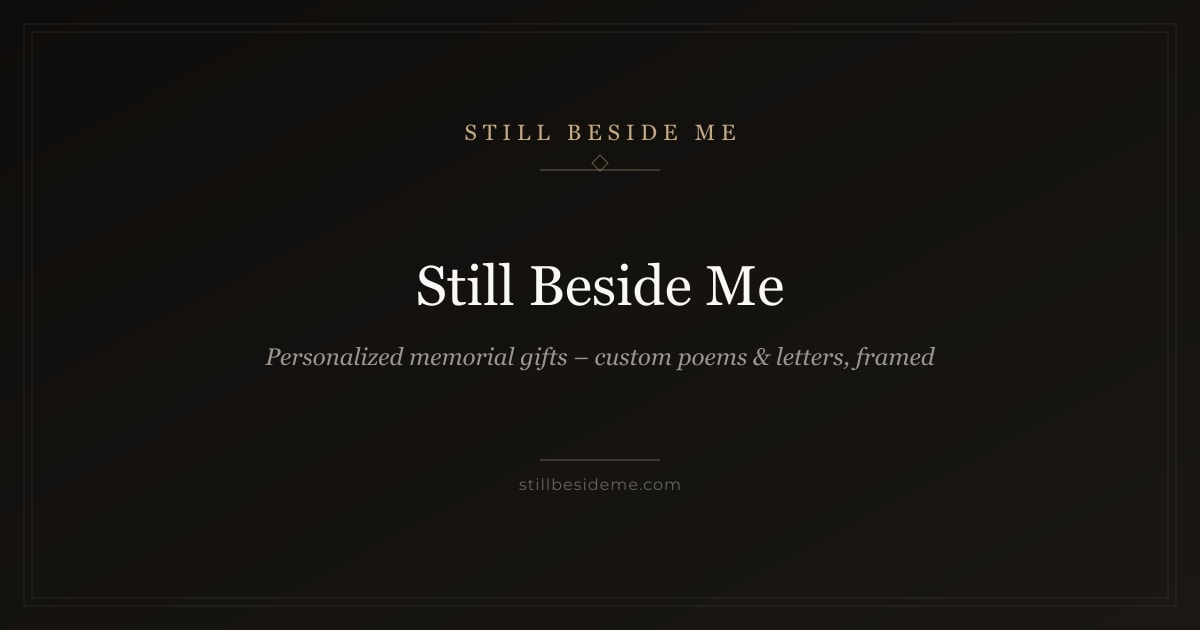
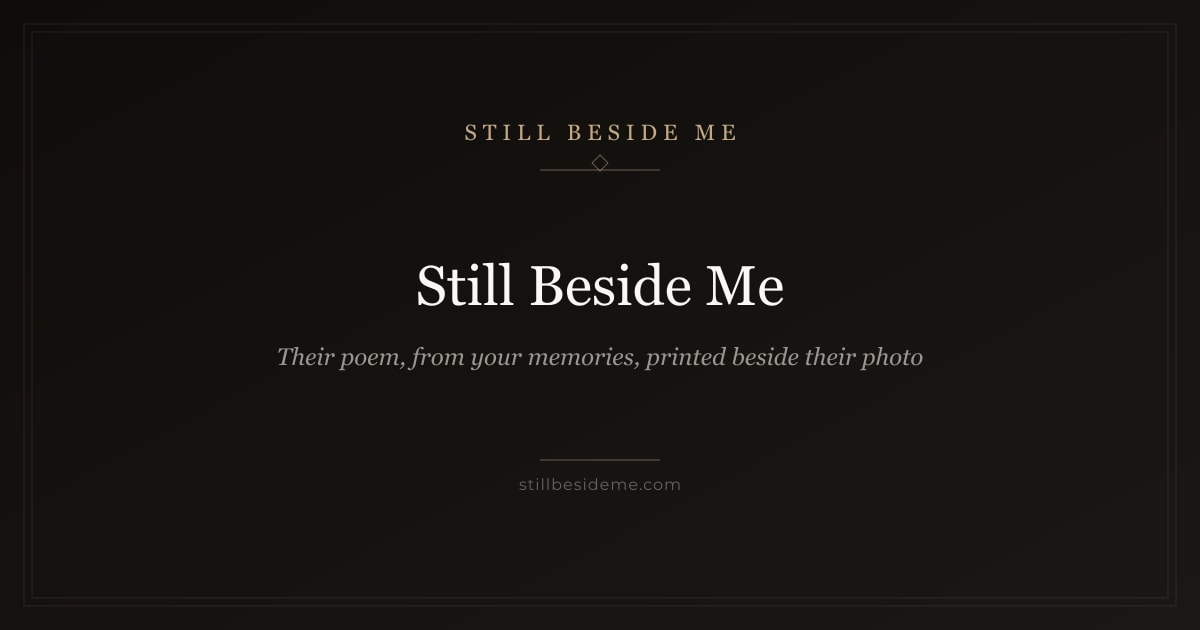
Brand marks + pet-pivot social share images
Social/OG images still said "poems & letters, framed" and rendered cards
for the discontinued human-loss pages. Update the generator for the pet
pivot: pet-focused taglines, render in the real brand serif (Cormorant via
vendored fontconfig), drop the 10 retired loss-of-* cards, regenerate all
OG images. Add brand marks (Cormorant wordmark light/dark with a gold
diamond divider, and a monogram+wordmark header lockup) alongside the
existing gold-framed "S" icon.

Changed region(s): [[0.2158, 0.5429, 0.7708, 0.6032]]

diff --git a/scripts/generate-og-images.js b/scripts/generate-og-images.js
@@ -6,6 +6,12 @@ const sharp = require('sharp');
 const path = require('path');
 const fs = require('fs');
 
+// Render text in the brand serif (Cormorant Garamond) — point fontconfig at the
+// vendored font files so Sharp rasterizes the real typeface, not a fallback.
+if (!process.env.FONTCONFIG_PATH) {
+  process.env.FONTCONFIG_PATH = path.join(__dirname, '..', 'src', 'assets', 'fonts');
+}
+
 const OUTPUT_DIR = path.join(__dirname, '..', 'public', 'images', 'og');
 if (!fs.existsSync(OUTPUT_DIR)) fs.mkdirSync(OUTPUT_DIR, { recursive: true });
 
@@ -20,25 +26,25 @@ const COLORS = {
   muted: '#9B9590',
 };
 
-// Pages to generate OG images for
+// Pages to generate OG images for. Pet-only after the June-2026 pivot \u2014 the
+// legacy human-loss / "letter from heaven" cards were removed with their pages.
 const pages = [
-  { file: 'homepage', title: 'Still Beside Me', sub: 'Personalized memorial gifts \u2013 custom poems & letters, framed' },
-  { file: 'memorial-gifts', title: 'Memorial Gifts', sub: 'A letter from heaven \u2013 in their voice, from your memories' },
+  { file: 'homepage', title: 'Still Beside Me', sub: 'Their poem, from your memories, printed beside their photo' },
   { file: 'pet-memorial-gifts', title: 'Pet Memorial Gifts', sub: 'A personalized poem for the pet who changed your life' },
-  { file: 'sympathy-gifts', title: 'Sympathy Gifts', sub: 'The gift that stays on the wall for years' },
-  { file: 'dog-memorial-gifts', title: 'Dog Memorial Gifts', sub: 'A personalized poem for the best dog ever' },
+  { file: 'dog-memorial-gifts', title: 'Dog Memorial Gifts', sub: 'A personalized poem for the best dog you ever had' },
   { file: 'cat-memorial-gifts', title: 'Cat Memorial Gifts', sub: 'A personalized poem for the cat who chose you' },
-  { file: 'loss-of-mother-gift', title: 'Loss of Mother', sub: 'A letter she would have written' },
-  { file: 'loss-of-father-gift', title: 'Loss of Father', sub: 'A letter he would have written' },
-  { file: 'loss-of-husband-gift', title: 'Loss of Husband', sub: 'A letter he would have written' },
-  { file: 'loss-of-wife-gift', title: 'Loss of Wife', sub: 'A letter she would have written' },
-  { file: 'loss-of-grandmother-gift', title: 'Loss of Grandmother', sub: 'A letter she would have written' },
-  { file: 'loss-of-grandfather-gift', title: 'Loss of Grandfather', sub: 'A letter he would have written' },
-  { file: 'loss-of-child-gift', title: 'Loss of Child', sub: 'A letter from the child who loved you' },
-  { file: 'loss-of-brother-gift', title: 'Loss of Brother', sub: 'A letter he would have written' },
-  { file: 'loss-of-sister-gift', title: 'Loss of Sister', sub: 'A letter she would have written' },
-  { file: 'loss-of-best-friend-gift', title: 'Loss of Best Friend', sub: 'A letter they would have written' },
-  { file: 'blog', title: 'Blog', sub: 'Grief, remembrance & memorial gift ideas' },
+  { file: 'memorial-gifts', title: 'Memorial Gifts', sub: 'A poem and photo, framed \u2013 made from your memories' },
+  { file: 'sympathy-gifts', title: 'Pet Sympathy Gifts', sub: 'The gift that stays on the wall for years' },
+  { file: 'blog', title: 'Blog', sub: 'Pet loss, remembrance & memorial gift ideas' },
+];
+
+// OG cards left behind by the removed legacy pages \u2014 delete so nothing stale
+// lingers in public/images/og/.
+const RETIRED = [
+  'loss-of-mother-gift', 'loss-of-father-gift', 'loss-of-husband-gift',
+  'loss-of-wife-gift', 'loss-of-grandmother-gift', 'loss-of-grandfather-gift',
+  'loss-of-child-gift', 'loss-of-brother-gift', 'loss-of-sister-gift',
+  'loss-of-best-friend-gift',
 ];
 
 function createSVG(title, sub) {
@@ -76,21 +82,21 @@ function createSVG(title, sub) {
 
   <!-- Brand name -->
   <text x="${cx}" y="140" text-anchor="middle"
-        font-family="Georgia, 'Cormorant Garamond', serif"
+        font-family="'Cormorant Garamond', Georgia, serif"
         font-size="22" letter-spacing="6" fill="${COLORS.warm}">
     STILL BESIDE ME
   </text>
 
   <!-- Main title -->
   <text x="${cx}" y="${h / 2 - 10}" text-anchor="middle"
-        font-family="Georgia, 'Cormorant Garamond', serif"
+        font-family="'Cormorant Garamond', Georgia, serif"
         font-size="56" font-weight="400" fill="${COLORS.text}">
     ${escapeXml(title)}
   </text>
 
   <!-- Subtitle -->
   <text x="${cx}" y="${h / 2 + 50}" text-anchor="middle"
-        font-family="Georgia, 'Cormorant Garamond', serif"
+        font-family="'Cormorant Garamond', Georgia, serif"
         font-size="24" font-style="italic" fill="${COLORS.muted}">
     ${escapeXml(sub)}
   </text>
@@ -130,6 +136,12 @@ async function generate() {
 
     const stats = fs.statSync(outPath);
     console.log(`  ${page.file}.jpg  (${Math.round(stats.size / 1024)}KB)`);
+  }
+
+  // Remove OG cards for pages that no longer exist.
+  for (const name of RETIRED) {
+    const p = path.join(OUTPUT_DIR, `${name}.jpg`);
+    if (fs.existsSync(p)) { fs.unlinkSync(p); console.log(`  removed stale ${name}.jpg`); }
   }
 
   console.log(`\nDone. Images saved to public/images/og/`);

diff --git a/scripts/generate-brand-marks.js b/scripts/generate-brand-marks.js
@@ -1,0 +1,49 @@
+/**
+ * Brand marks for header / social avatars, rendered in the brand serif.
+ *   - wordmark-light.png : "Still Beside Me" (cream) + gold diamond divider, for dark backgrounds
+ *   - wordmark-dark.png  : same in espresso ink, for light backgrounds
+ *   - lockup-light.png   : gold-framed "S" monogram + wordmark (horizontal header lockup)
+ * Run: node scripts/generate-brand-marks.js
+ */
+const sharp = require('sharp');
+const path = require('path');
+if (!process.env.FONTCONFIG_PATH) {
+  process.env.FONTCONFIG_PATH = path.join(__dirname, '..', 'src', 'assets', 'fonts');
+}
+const OUT = path.join(__dirname, '..', 'public', 'images', 'brand');
+const WARM = '#C4A882';
+
+function wordmarkSVG(ink, muted) {
+  const w = 720, h = 200, cx = w / 2;
+  return `<svg width="${w}" height="${h}" xmlns="http://www.w3.org/2000/svg">
+    <text x="${cx}" y="70" text-anchor="middle" font-family="'Cormorant Garamond', Georgia, serif"
+          font-size="26" letter-spacing="7" fill="${WARM}">STILL BESIDE ME</text>
+    <text x="${cx}" y="140" text-anchor="middle" font-family="'Cormorant Garamond', Georgia, serif"
+          font-size="72" font-weight="500" fill="${ink}">Still Beside Me</text>
+    <line x1="${cx-70}" y1="168" x2="${cx-14}" y2="168" stroke="${WARM}" stroke-width="1" opacity="0.7"/>
+    <polygon points="${cx},160 ${cx+8},168 ${cx},176 ${cx-8},168" fill="none" stroke="${WARM}" stroke-width="1" opacity="0.8"/>
+    <line x1="${cx+14}" y1="168" x2="${cx+70}" y2="168" stroke="${WARM}" stroke-width="1" opacity="0.7"/>
+  </svg>`;
+}
+
+async function main() {
+  await sharp(Buffer.from(wordmarkSVG('#FAF8F5', '#9B9590'))).png()
+    .toFile(path.join(OUT, 'wordmark-light.png'));
+  await sharp(Buffer.from(wordmarkSVG('#241E19', '#6B5D52'))).png()
+    .toFile(path.join(OUT, 'wordmark-dark.png'));
+
+  // Horizontal lockup: monogram + single-line wordmark on transparent
+  const W = 760, H = 200;
+  const mono = await sharp(path.join(__dirname, '..', 'public', 'favicon-192x192.png'))
+    .resize(128, 128).toBuffer();
+  const wordSVG = `<svg width="${W}" height="${H}" xmlns="http://www.w3.org/2000/svg">
+      <text x="176" y="118" font-family="'Cormorant Garamond', Georgia, serif"
+            font-size="66" font-weight="500" fill="#FAF8F5">Still Beside Me</text>
+    </svg>`;
+  await sharp({ create: { width: W, height: H, channels: 4, background: { r:0,g:0,b:0,alpha:0 } } })
+    .composite([{ input: mono, left: 24, top: 36 }, { input: Buffer.from(wordSVG), left: 0, top: 0 }])
+    .png().toFile(path.join(OUT, 'lockup-light.png'));
+
+  console.log('Wrote wordmark-light.png, wordmark-dark.png, lockup-light.png to public/images/brand/');
+}
+main().catch(e => { console.error(e); process.exit(1); });
